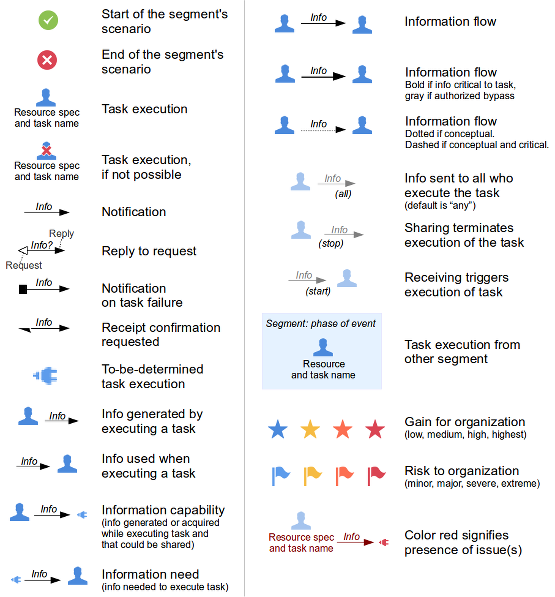
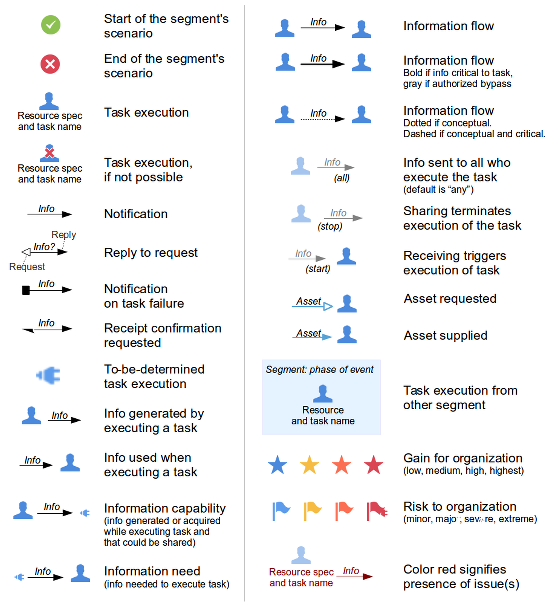
Online doc updated for material assets (missing new pictures and picture updates)
git-svn-id: https://wush.net/svn/mindalliance@6172 baad322d-9929-0410-88f0-f92e8ff3e1bd

diff --git a/channels/trunk/src/main/java/com/mindalliance/channels/pages/components/plan/ModelAssetsPanel.java b/channels/trunk/src/main/java/com/mindalliance/channels/pages/components/plan/ModelAssetsPanel.java
@@ -92,7 +92,7 @@ public class ModelAssetsPanel extends AbstractCommandablePanel implements NameRa
 
     @Override
     public String getHelpTopicId() {
-        return "assets";
+        return "all-material-assets";
     }
 
     @Override
